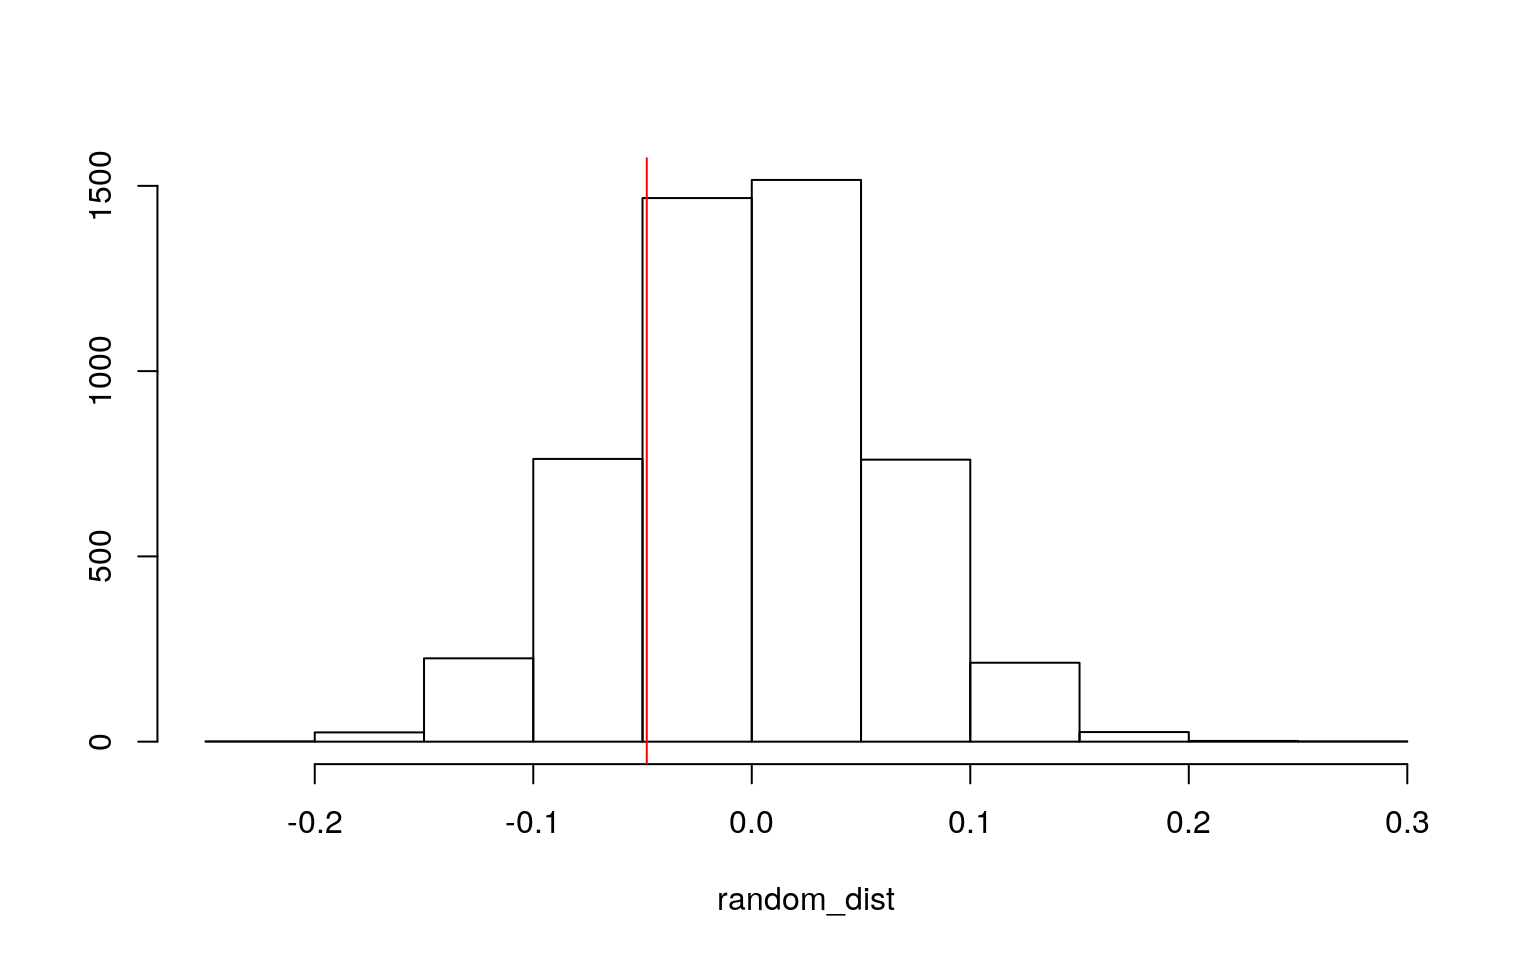
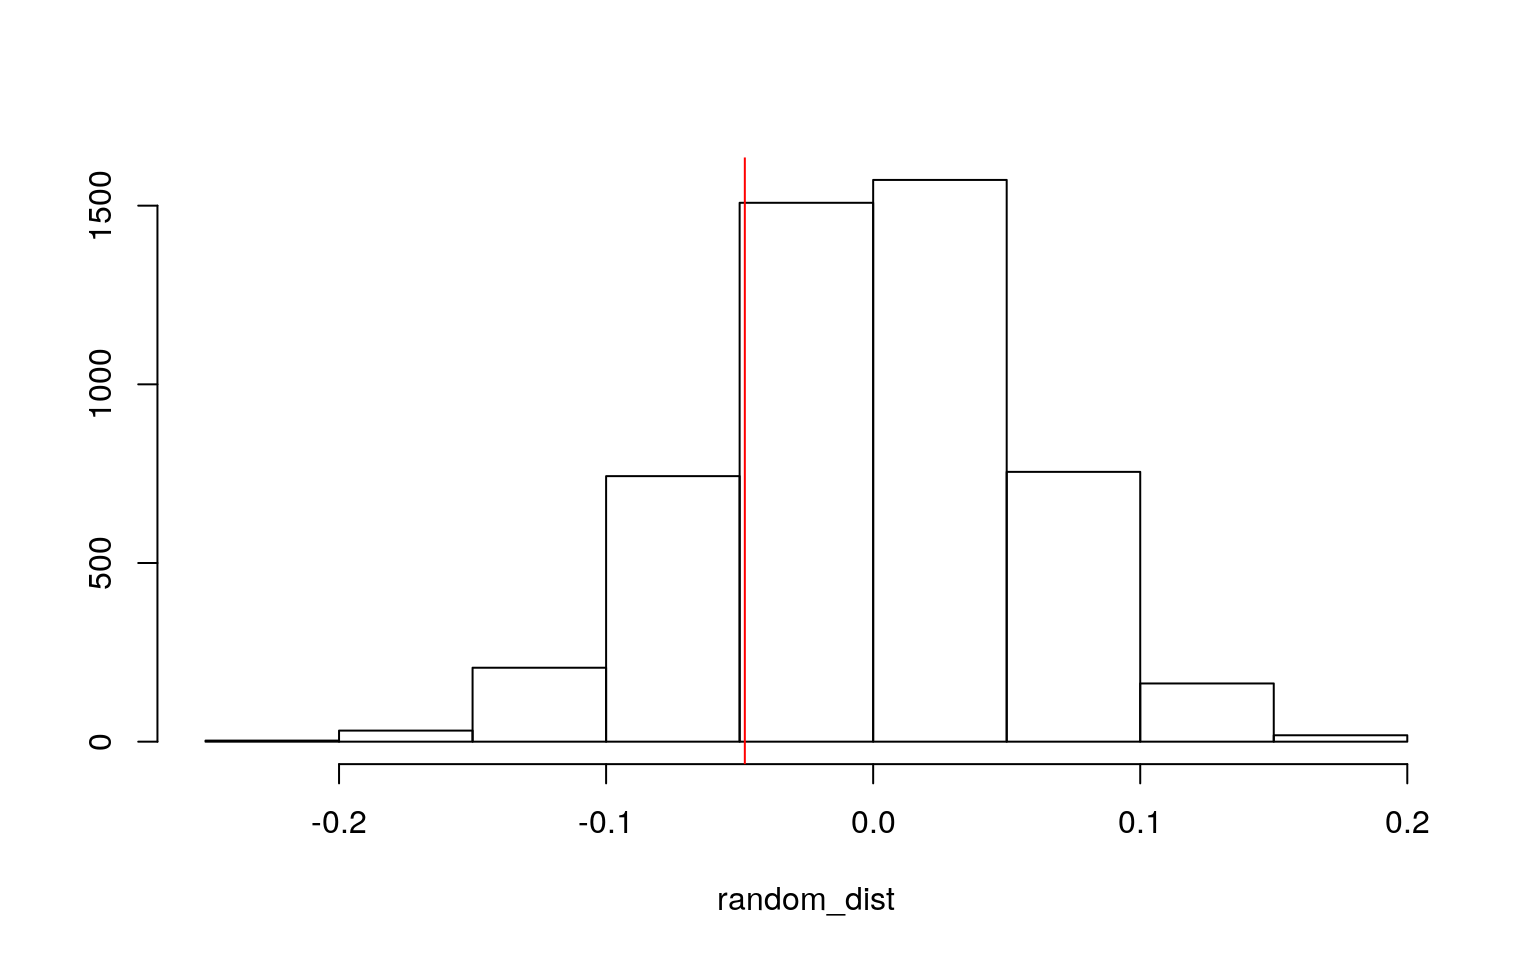
dates

diff --git a/project/project2/index.html b/project/project2/index.html
@@ -60,7 +60,7 @@
  
 <div class="blog-title">
           <h4>
-         January 1, 0001 
+         August 5, 2021 
             &nbsp;&nbsp;
             
           </h4>
@@ -164,19 +164,19 @@ head(citizenry_checks)</code></pre>
 ##          &lt;dbl&gt;
 ## 1        0.148</code></pre>
 <pre class="r"><code>head(perm1&lt;-data.frame(checks=citizenry_checks$checks,citizen=sample(citizenry_checks$citizen)))</code></pre>
-<pre><code>##   checks  citizen
-## 1      3 citizens
-## 2      3 citizens
-## 3      3 citizens
-## 4      1 citizens
-## 5      1 citizens
-## 6      0 citizens</code></pre>
+<pre><code>##   checks     citizen
+## 1      3    citizens
+## 2      3    citizens
+## 3      3 noncitizens
+## 4      1    citizens
+## 5      1    citizens
+## 6      0    citizens</code></pre>
 <pre class="r"><code>perm1%&gt;%group_by(citizen)%&gt;%
   summarize(means=mean(checks))%&gt;%summarize(`mean_diff:`=diff(means))</code></pre>
 <pre><code>## # A tibble: 1 x 1
 ##   `mean_diff:`
 ##          &lt;dbl&gt;
-## 1      -0.0756</code></pre>
+## 1       0.0248</code></pre>
 <pre class="r"><code>Arrests %&gt;% group_by(citizen)%&gt;%
   summarize(means=mean(checks))%&gt;%summarize(`mean_diff:`=diff(means))</code></pre>
 <pre><code>## # A tibble: 1 x 1
@@ -191,7 +191,7 @@ mean(new[new$citizen==&quot;noncitizens&quot;,]$checks)}
 {hist(random_dist,main=&quot;&quot;,ylab=&quot;&quot;); abline(v = -0.0480556,col=&quot;red&quot;)}</code></pre>
 <p><img src="../../project/project2_files/figure-html/unnamed-chunk-2-2.png" width="768" style="display: block; margin: auto;" /></p>
 <pre class="r"><code>mean(random_dist&gt;.0480556 | random_dist &lt; -.0480556)</code></pre>
-<pre><code>## [1] 0.4246</code></pre>
+<pre><code>## [1] 0.4064</code></pre>
 <p><em>I first had to turn my two categories of citizenship into vectors using the values from the check numerical category. I then performed a randomization test between the citizenry groups, which I categorized into citizens and noncitizens, and checks (which ranged from 0 to 6). The null hypothesis is: mean state birth rate is the same for younger and older teens and the alternative hypothesis states that the checks are different for citizens and noncitizens. The mean difference was found to be -.1480556. I then randomized the data and created a histogram showing the results with a red line to be at the mean difference point. The red line appears on the graph because there are mean differences which are as extreme as the computed mean difference value. A t-test was run and confirmed this by showing p-value of 0.456, meaning we cannot reject the null hypothesis to say that there is a difference in checks between the two type of citizenship.</em></p>
 <ul>
 <li><strong>3. (40 pts)</strong> Build a linear regression model predicting one of your response variables from at least 2 other variables, including their interaction. Mean-center any numeric variables involved in the interaction.</li>

diff --git a/project/index.html b/project/index.html
@@ -59,7 +59,7 @@
               <div class="row">
                 <div class="col-sm-4 col-md-4 col-lg-4">
                   <h5 style="text-align: right">
-                    January 1, 0001
+                    August 5, 2021
                   </h5>
                  </div>
                  <div class="col-sm-8 col-md-8 col-lg-8">
@@ -72,7 +72,7 @@
               <div class="row">
                 <div class="col-sm-4 col-md-4 col-lg-4">
                   <h5 style="text-align: right">
-                    January 1, 0001
+                    March 31, 2021
                   </h5>
                  </div>
                  <div class="col-sm-8 col-md-8 col-lg-8">

diff --git a/project/project1/index.html b/project/project1/index.html
@@ -60,7 +60,7 @@
  
 <div class="blog-title">
           <h4>
-         January 1, 0001 
+         March 31, 2021 
             &nbsp;&nbsp;
             
           </h4>
